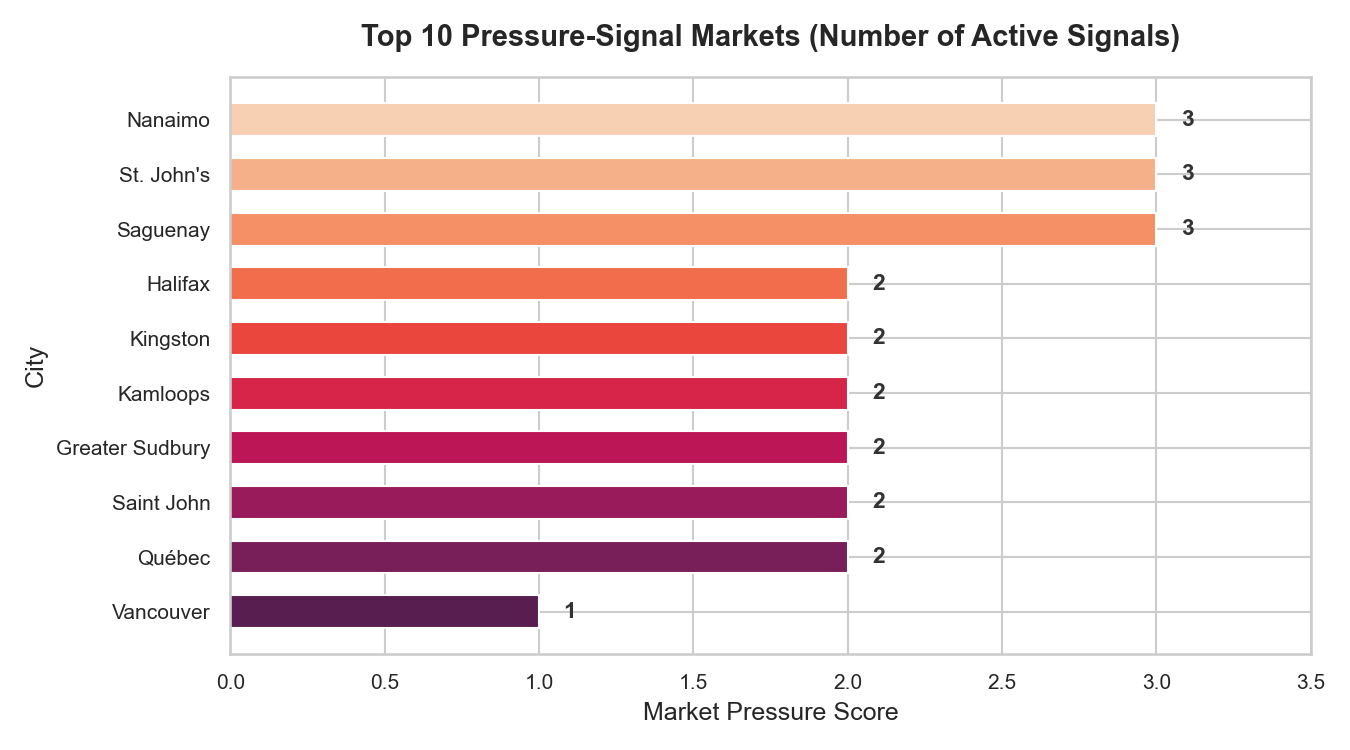
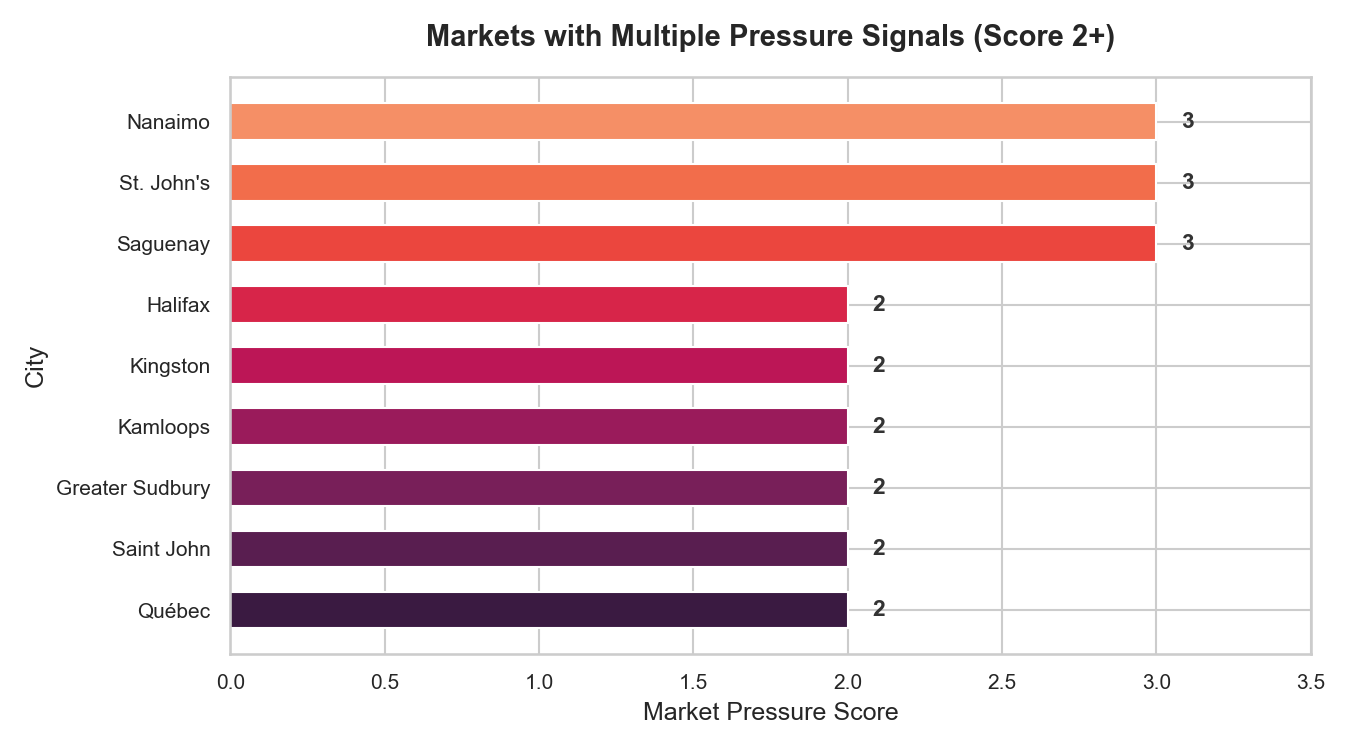
Add Power BI report and update README

diff --git a/outputs/project_brief_deck.md b/outputs/project_brief_deck.md
@@ -6,17 +6,17 @@
 ### Slide 1 — Title
 
 # Canadian Rental Market Pressure Analysis
-### Python + SQL + CMHC Rental Market Data
-**2024–2025 comparison across 43 major centres**
+### Comparing cost, availability, and recent change across 43 Canadian rental markets
+**Where multiple rental-market pressure signals appear together**
 
-*A study on how combined market signals highlight rental pressure across Canada.*
+*Python + SQL + CMHC Rental Market Data (2024-2025)*
 
 ---
 
 ### Slide 2 — Problem
 
 ## Question:
-### Which Canadian rental markets showed the strongest pressure signals in 2025?
+### Which Canadian rental markets showed combinations of high rent, low vacancy, rapid rent growth, or declining vacancy between 2024 and 2025?
 
 We monitor pressure using 4 key signals:
 
@@ -31,7 +31,7 @@ We monitor pressure using 4 key signals:
 └───────────────────────────┘     └───────────────────────────┘
 ```
 
-*Note: High rent alone does not mean highest pressure. The strongest pressure comes from combined signals.*
+*Note: A higher score does not necessarily mean higher rent; it means more selected signals occurred at the same time.*
 
 ---
 
@@ -48,32 +48,49 @@ We monitor pressure using 4 key signals:
 
 ---
 
-### Slide 4 — Main Finding
+### Slide 4 — Markets with Combined Pressure Signals
 
-## Top 10 Pressure-Signal Markets
+## Markets with the most combined pressure signals
+### A higher score does not necessarily mean higher rent; it means more selected signals occurred at the same time.
 
-![Top 10 Pressure-Signal Markets](/Users/ishmeet16/Documents/RMA/canadian-rental-market-pressure/outputs/charts/top_pressure_markets.png)
+![Markets with Multiple Pressure Signals](/Users/ishmeet16/Documents/RMA/canadian-rental-market-pressure/outputs/charts/top_pressure_markets.png)
 
 **Caption:**
-*Nanaimo, St. John’s, and Saguenay had the most combined pressure signals (Score 3), but for different reasons.*
+*Nanaimo, St. John’s, and Saguenay led with 3 signals, while Halifax, Kingston, Kamloops, Sudbury, Saint John, and Quebec hit exactly 2 signals.*
 
 ---
 
-### Slide 5 — Explain the Difference
+### Slide 5 — Highest 2025 Rents (Cost Story)
+
+## Highest 2025 Two-Bedroom Rents
+### Looking at absolute costs across the top major markets.
+
+![Highest 2025 Two-Bedroom Rents](/Users/ishmeet16/Documents/RMA/canadian-rental-market-pressure/outputs/charts/highest_rents.png)
+
+**Caption:**
+*Vancouver, Victoria, Kelowna, and Toronto had the highest two-bedroom rents, with Vancouver leading at $2,363.*
+
+---
+
+### Slide 6 — Explain the Difference (Scatterplot)
 
 ## Rent vs Vacancy Scatterplot
 
 ![Rent vs Vacancy Scatterplot](/Users/ishmeet16/Documents/RMA/canadian-rental-market-pressure/outputs/charts/rent_vs_vacancy_scatterplot.png)
 
 **Key Message:**
-*Vancouver had the highest rent, but Nanaimo had both high rent and low vacancy. Saguenay had lower rent but very tight vacancy and fast growth.*
+*Vancouver had the highest rent, but Nanaimo had both high rent and low vacancy. Saguenay had lower rent but very tight vacancy and fast growth. This visualizes the separation of the cost story and the tightening story.*
 
 ---
 
-### Slide 6 — Answer + Limits
+### Slide 7 — Answer + Limits
 
 ## The Answer:
-Rental pressure looked different across cities. Some markets were expensive, some were tight, and some were changing quickly. **Nanaimo, St. John’s, Saguenay, and Halifax** were the strongest markets to monitor based on combined signals.
+The analysis separates two patterns: high-cost markets and markets with rapidly tightening rental conditions. Markets with multiple signals may warrant closer monitoring, but the score does not measure affordability or identify causes.
+
+* **High Cost:** Vancouver and Toronto had the highest two-bedroom rents in the dataset.
+* **High Combined Pressure:** Nanaimo combined high rent with low and declining vacancy.
+* **Emerging Pressure:** St. John’s and Saguenay were not among the highest-rent markets, but their low vacancy and rapid growth signals suggest emerging rental-market pressure.
 
 ### Limitations:
 * **2024–2025 comparison only** (short-term window).

diff --git a/README.md b/README.md
@@ -11,7 +11,7 @@ The analysis highlights markets with different pressure patterns rather than dec
 * **Nanaimo** showed high 2025 two-bedroom rent, low vacancy, and a decline in vacancy from 2024.
 * **St. John’s** and **Saguenay** combined low vacancy, faster rent growth, and lower vacancy than the prior year.
 * **Halifax** crossed the high-rent and rapid-growth thresholds.
-* **Vancouver, Toronto, Victoria, and Calgary** had high two-bedroom rents, but did not show the same combination of tightening vacancy and rapid growth in this one-year comparison.
+* **Vancouver, Toronto, Victoria, and Calgary** had high two-bedroom rents, but did not show the same combination of tightening vacancy and rapid growth in this 2024–2025 comparison.
 
 These results are intended for market monitoring. They do not explain why rents or vacancies changed.
 
@@ -29,18 +29,40 @@ These results are intended for market monitoring. They do not explain why rents 
 
 ## Data-Driven Thresholds (2025)
 
-The analysis identifies pressure points by comparing cities against four benchmarks (calculated using the 75th percentile for rents and growth, and the 25th percentile for vacancy and change):
+The analysis identifies rental-market signals using transparent benchmarks. High rent and rapid rent growth thresholds were calculated from the distribution of included markets. Low vacancy reflects limited availability, while vacancy tightening indicates that the vacancy rate decreased from 2024 to 2025.
 
-* **High Rent:** >= $1,802
-* **Low Vacancy:** <= 2.5%
-* **Rapid Rent Growth:** >= 6.1%
-* **Vacancy tightening:** the vacancy rate decreased from 2024 to 2025.
+* High Rent: >= $1,802
+* Low Vacancy: <= 2.5%
+* Rapid Rent Growth: >= 6.1%
+* Vacancy Tightening: Vacancy rate decreased from 2024 to 2025
 
 ---
 
 ## Tools
 
 Python, pandas, SQLite, SQL, Jupyter Notebook, and Power BI.
+
+---
+
+## Power BI Dashboard
+
+The project includes a two-page Power BI report:
+
+* Overview: compares high-cost rental markets with markets showing multiple rental-pressure signals.
+* Pressure Details: shows the rent, vacancy, rent-growth, and vacancy-change conditions behind each flagged market.
+
+Note: The interactive Power BI report was developed in an SFU-managed workspace, where public web publishing is restricted. Dashboard screenshots and an [exported PDF](outputs/canadian_rental_market_deck.pdf) are included in this repository so the report can be reviewed without organizational access.
+
+![Overview dashboard](images/overview.png)
+![Pressure details dashboard](images/pressure-details.png)
+
+---
+
+## Project Brief Slide Deck
+
+View or download the presentation assets:
+* **[PDF Presentation Slide Deck](outputs/canadian_rental_market_deck.pdf)** — Printable landscape presentation slide deck.
+* **[Slide Outline (Markdown)](outputs/project_brief_deck.md)** — Slide-by-slide text outline of the presentation.
 
 ---
 